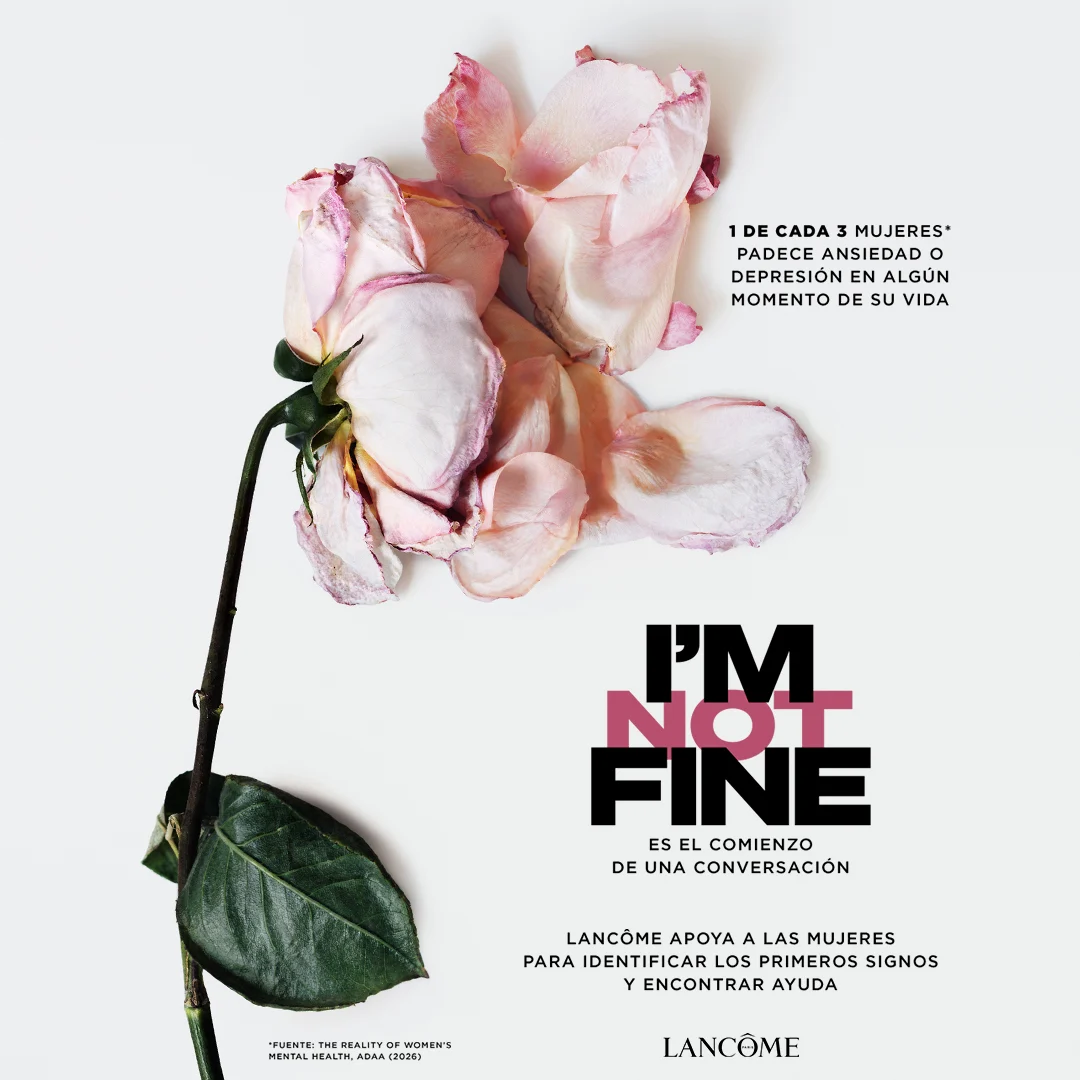
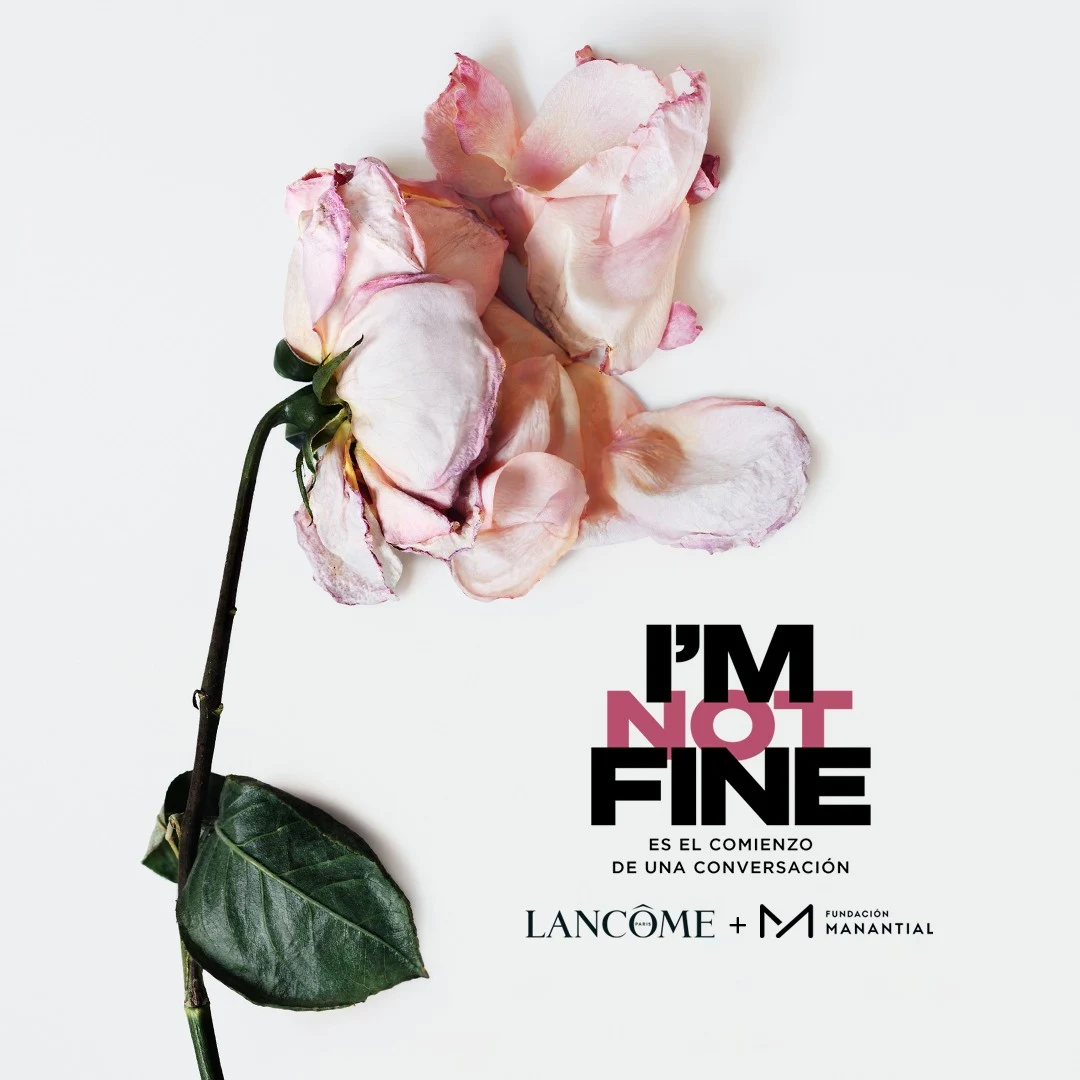
Recursos estrena el cartel con la firma conjunta
El que había era el de Lancôme a secas y cargaba con todo: el dato, la
fuente, el claim y tres bloques de texto de servicio. Este lleva solo el
claim y la firma Lancôme + Fundación Manantial, que es lo que pinta en
una landing alojada en el dominio de la fundación.

Entra sin tocar nada porque es 1080×1080, igual que el anterior, y la
caja ya estaba en 1:1 con contain.

El texto alternativo cambia con él: este cartel no dice «1 de cada 3
mujeres», así que no tiene sentido que lo diga su descripción. La fuente
del dato no se pierde por el camino: va escrita aparte, debajo de la
cifra, desde que apareció en los carteles.

diff --git a/index.html b/index.html
@@ -1511,7 +1511,7 @@ footer{background:var(--paper);padding-block:clamp(40px,5vw,72px) 108px;border-t
         <p class="lead rv">Encuentra información y recursos prácticos para ayudarte a gestionar situaciones del día a día, cuidar tu bienestar y saber cuándo puede ser necesario buscar apoyo.</p>
         <a class="btn rv" href="https://www.imfine.com/es-es/recursos" target="_blank" rel="noopener">Descubre los recursos <span class="arw">→</span></a>
       </div>
-      <figure class="rec-img rv"><img src="img/kv-imfine.webp" alt="1 de cada 3 mujeres padece ansiedad o depresión en algún momento de su vida. I'm not fine es el comienzo de una conversación. Lancôme apoya a las mujeres para identificar los primeros signos y encontrar ayuda." data-opt></figure>
+      <figure class="rec-img rv"><img src="img/kv-imfine.webp" alt="I'm not fine es el comienzo de una conversación. Lancôme + Fundación Manantial." data-opt></figure>
     </div>
   </section>
 
